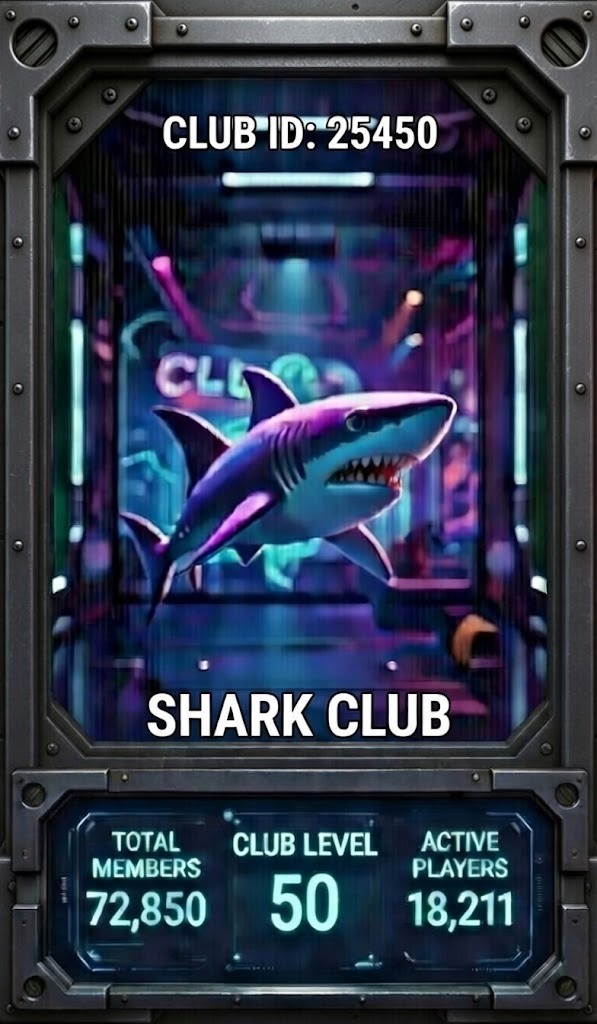
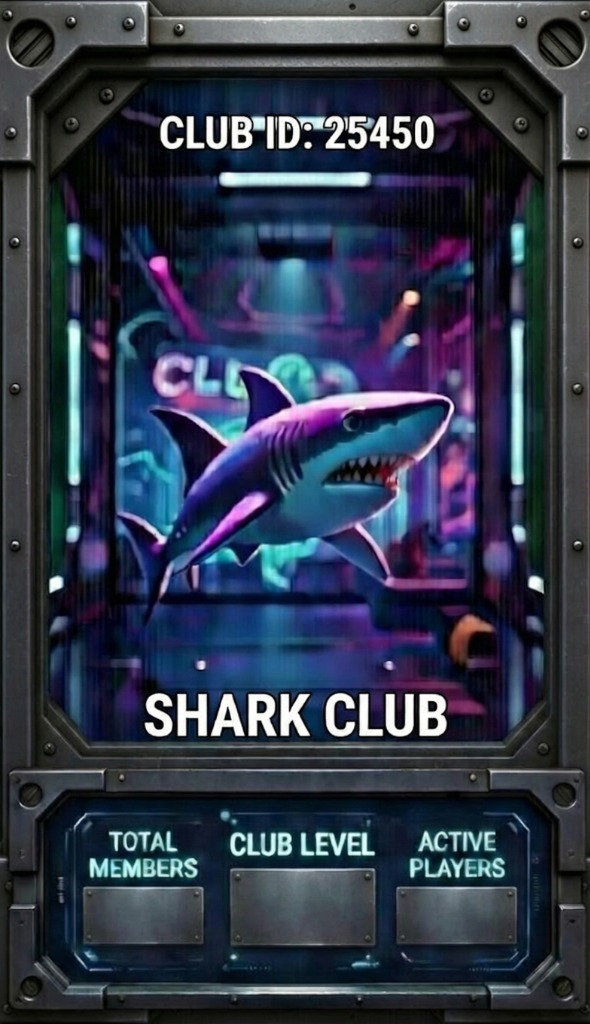
feat: shark club card with blank template and exact Roboto font specs

diff --git a/src/pages/HomePage.module.css b/src/pages/HomePage.module.css
@@ -1045,47 +1045,56 @@
     letter-spacing: 1px;
 }
 
-/* Positioned stat values inside the existing card boxes */
-/* These positions COVER the baked-in placeholder numbers on shark-club-card.jpg */
+/* ═══════════════════════════════════════════════════════════════
+   SHARK CLUB CARD STAT VALUES
+   Using exact specs from design template:
+   - Side numbers: Roboto Bold, 28px, #FFFFFF, cyan glow
+   - Center number: Roboto Bold, 54px, #E0FFFF, green-cyan glow
+   ═══════════════════════════════════════════════════════════════ */
+
+/* Base styles for all stat values */
 .statMembersValue,
 .statLevelValue,
 .statActiveValue {
     position: absolute;
-    font-size: 24px;
-    font-weight: 800;
-    color: #00d4ff;
-    text-shadow: 0 0 15px rgba(0, 200, 255, 0.8);
+    font-family: 'Roboto', sans-serif;
+    font-weight: 700;
     text-align: center;
     pointer-events: none;
-    /* LARGE dark background to completely cover baked-in numbers */
-    background: #0a1020;
-    padding: 0;
-    border-radius: 0;
-    width: 100px;
-    height: 42px;
-    display: flex;
-    align-items: center;
-    justify-content: center;
 }
 
-/* Total Members box - left position (covers "72,850") */
-.statMembersValue {
-    bottom: 22px;
-    left: 18px;
+/* Side numbers: Total Members & Active Players */
+.statMembersValue,
+.statActiveValue {
+    font-size: 28px;
+    color: #FFFFFF;
+    text-shadow: 0px 0px 8px rgba(0, 212, 255, 0.6);
 }
 
-/* Club Level box - center position (covers "50") */
+/* Center number: Club Level - larger focal point */
 .statLevelValue {
-    bottom: 22px;
+    font-size: 54px;
+    color: #E0FFFF;
+    text-shadow: 0px 0px 15px rgba(0, 255, 170, 0.5);
+}
+
+/* Position: Total Members box - left */
+.statMembersValue {
+    bottom: 45px;
+    left: 45px;
+}
+
+/* Position: Club Level box - center */
+.statLevelValue {
+    bottom: 30px;
     left: 50%;
     transform: translateX(-50%);
-    width: 80px;
 }
 
-/* Active Players box - right position (covers "18,211") */
+/* Position: Active Players box - right */
 .statActiveValue {
-    bottom: 22px;
-    right: 18px;
+    bottom: 45px;
+    right: 45px;
 }
 
 /* ═══════════════════════════════════════════════════════════════════════════════

diff --git a/src/pages/HomePage.tsx b/src/pages/HomePage.tsx
@@ -483,10 +483,10 @@ export default function HomePage() {
                         }}
                     >
                         <img src={SHARK_CLUB_CARD} alt="Shark Club" className={styles.sharkClubImage} />
-                        {/* Values positioned inside the existing card's stat boxes */}
-                        <span className={styles.statMembersValue}>{sharkClubStats.totalMembers}</span>
-                        <span className={styles.statLevelValue}>Lv.{sharkClubStats.clubLevel}</span>
-                        <span className={styles.statActiveValue}>{sharkClubStats.activePlayers}</span>
+                        {/* Values positioned inside the card's stat boxes - exact design spec */}
+                        <span className={styles.statMembersValue}>{sharkClubStats.totalMembers.toLocaleString()}</span>
+                        <span className={styles.statLevelValue}>{sharkClubStats.clubLevel}</span>
+                        <span className={styles.statActiveValue}>{sharkClubStats.activePlayers.toLocaleString()}</span>
                     </div>
                 </div>
 
